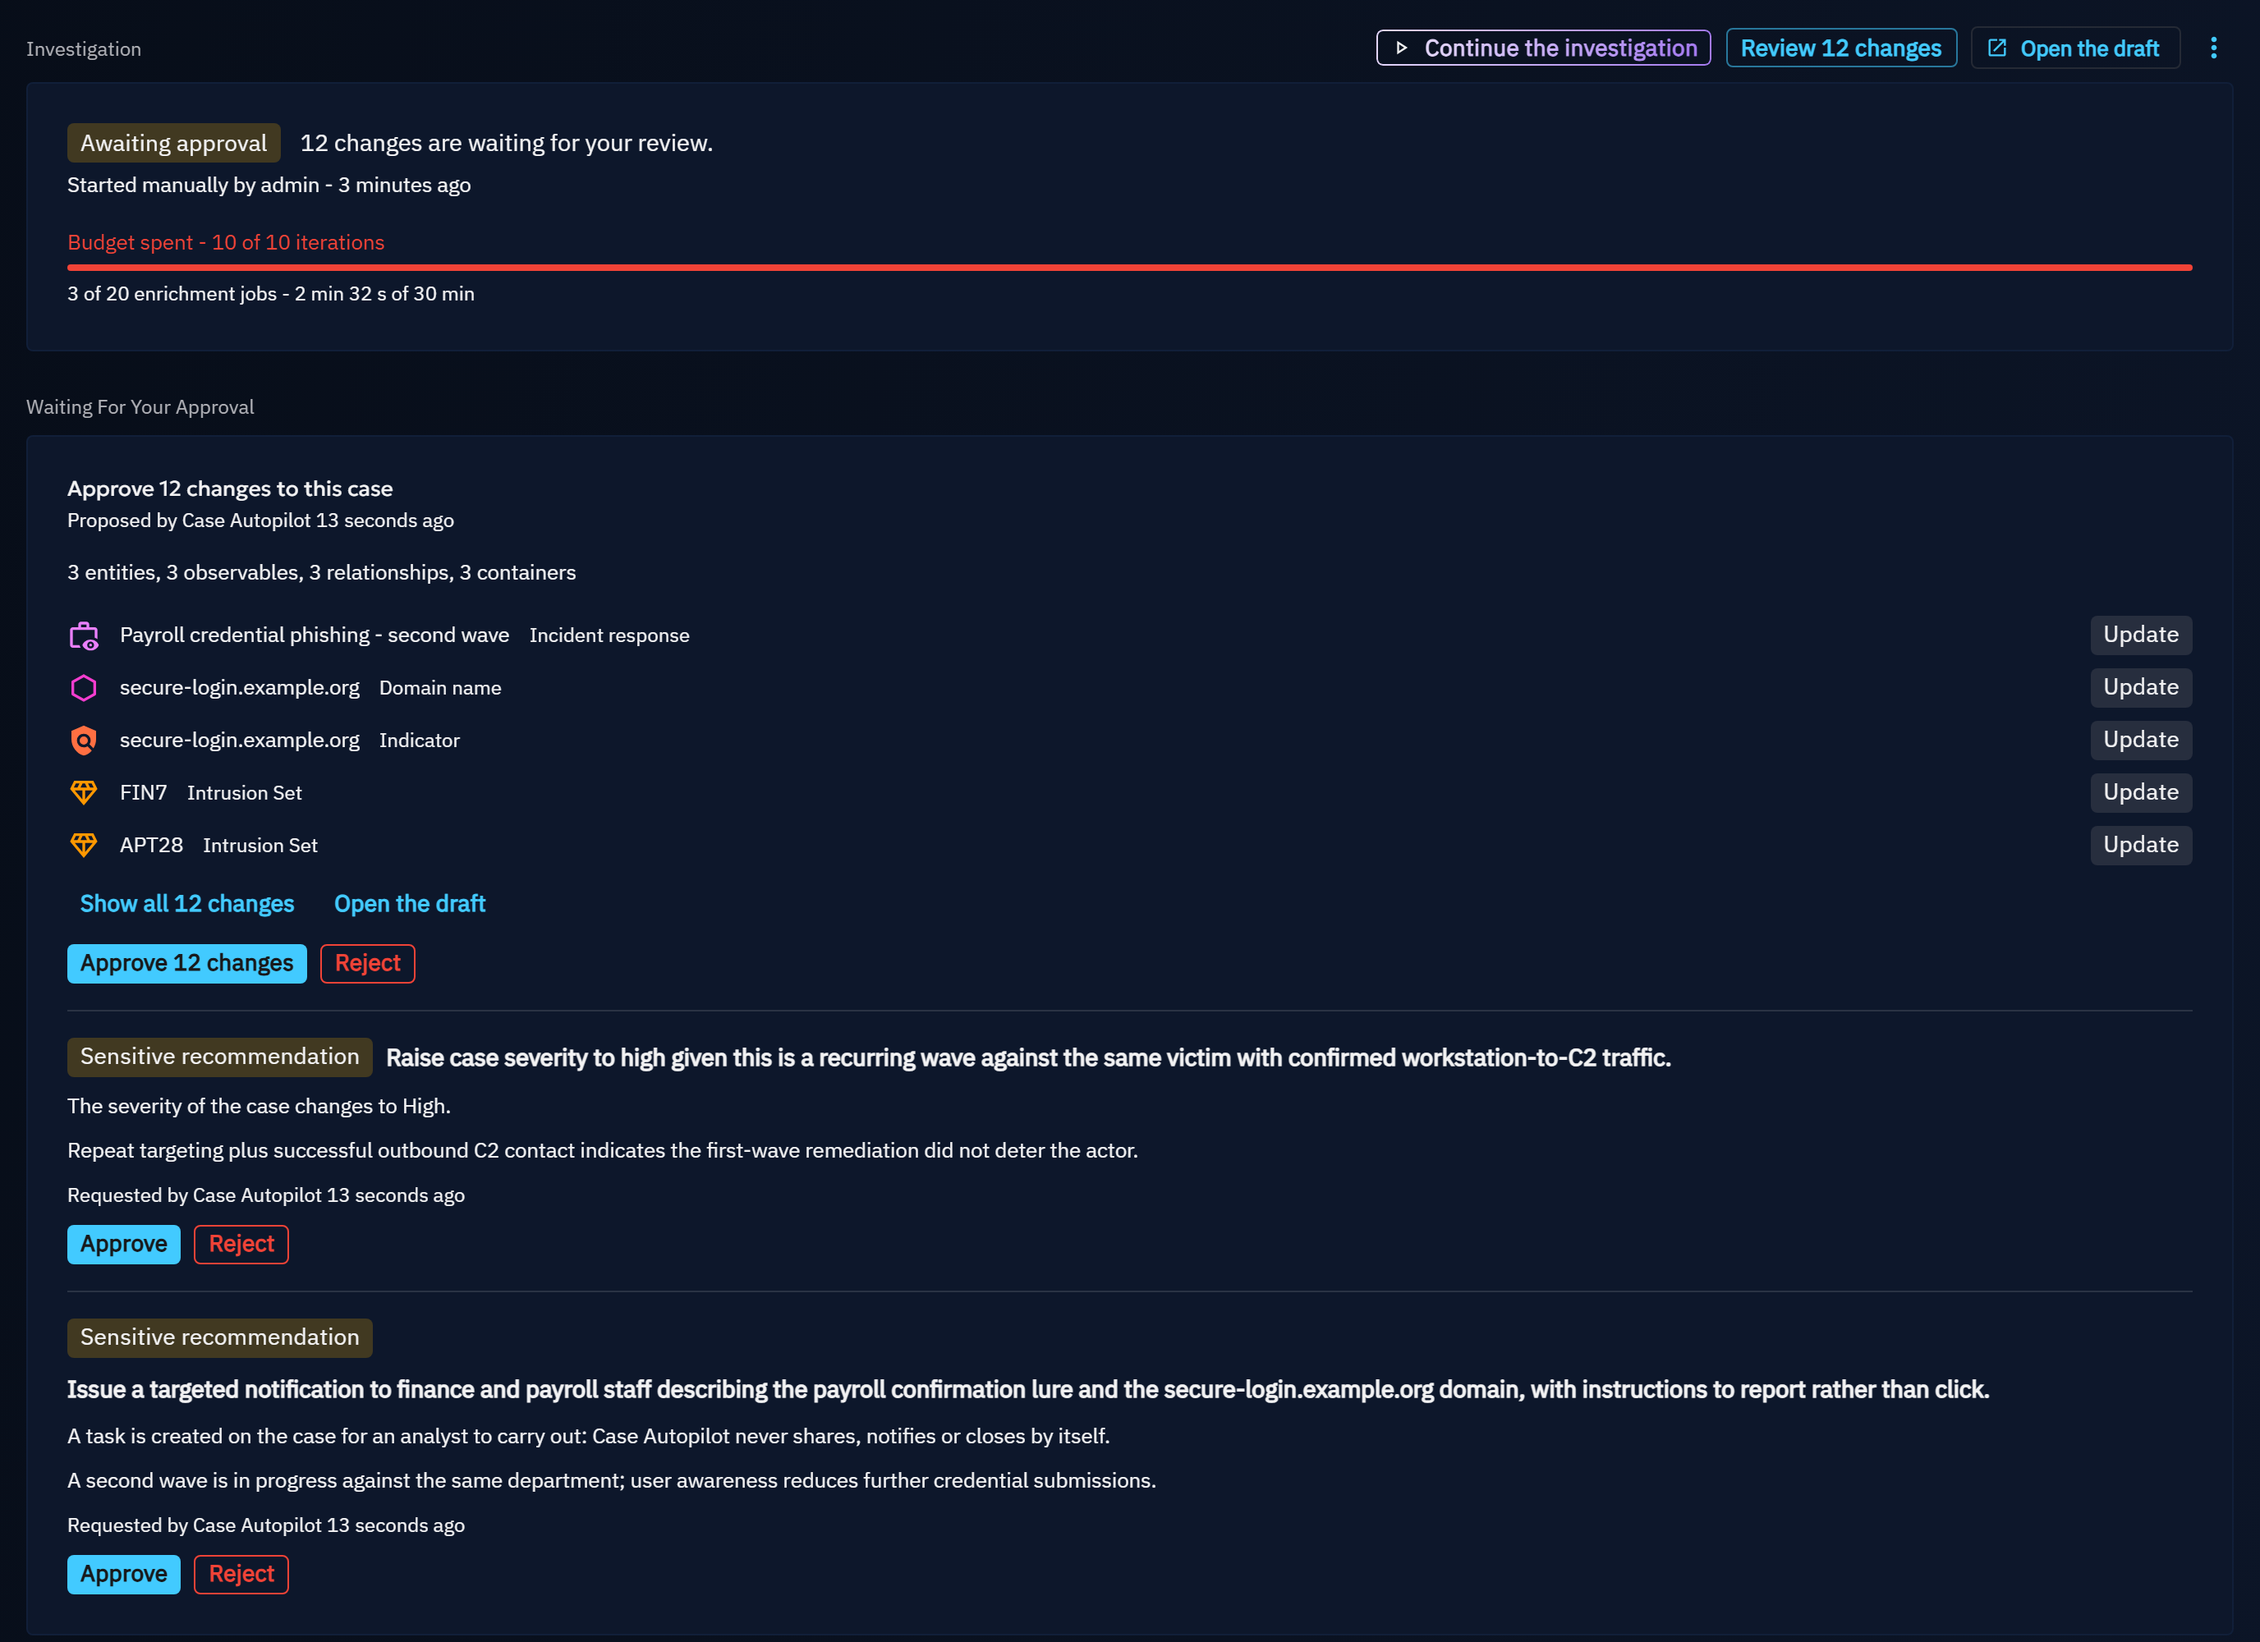
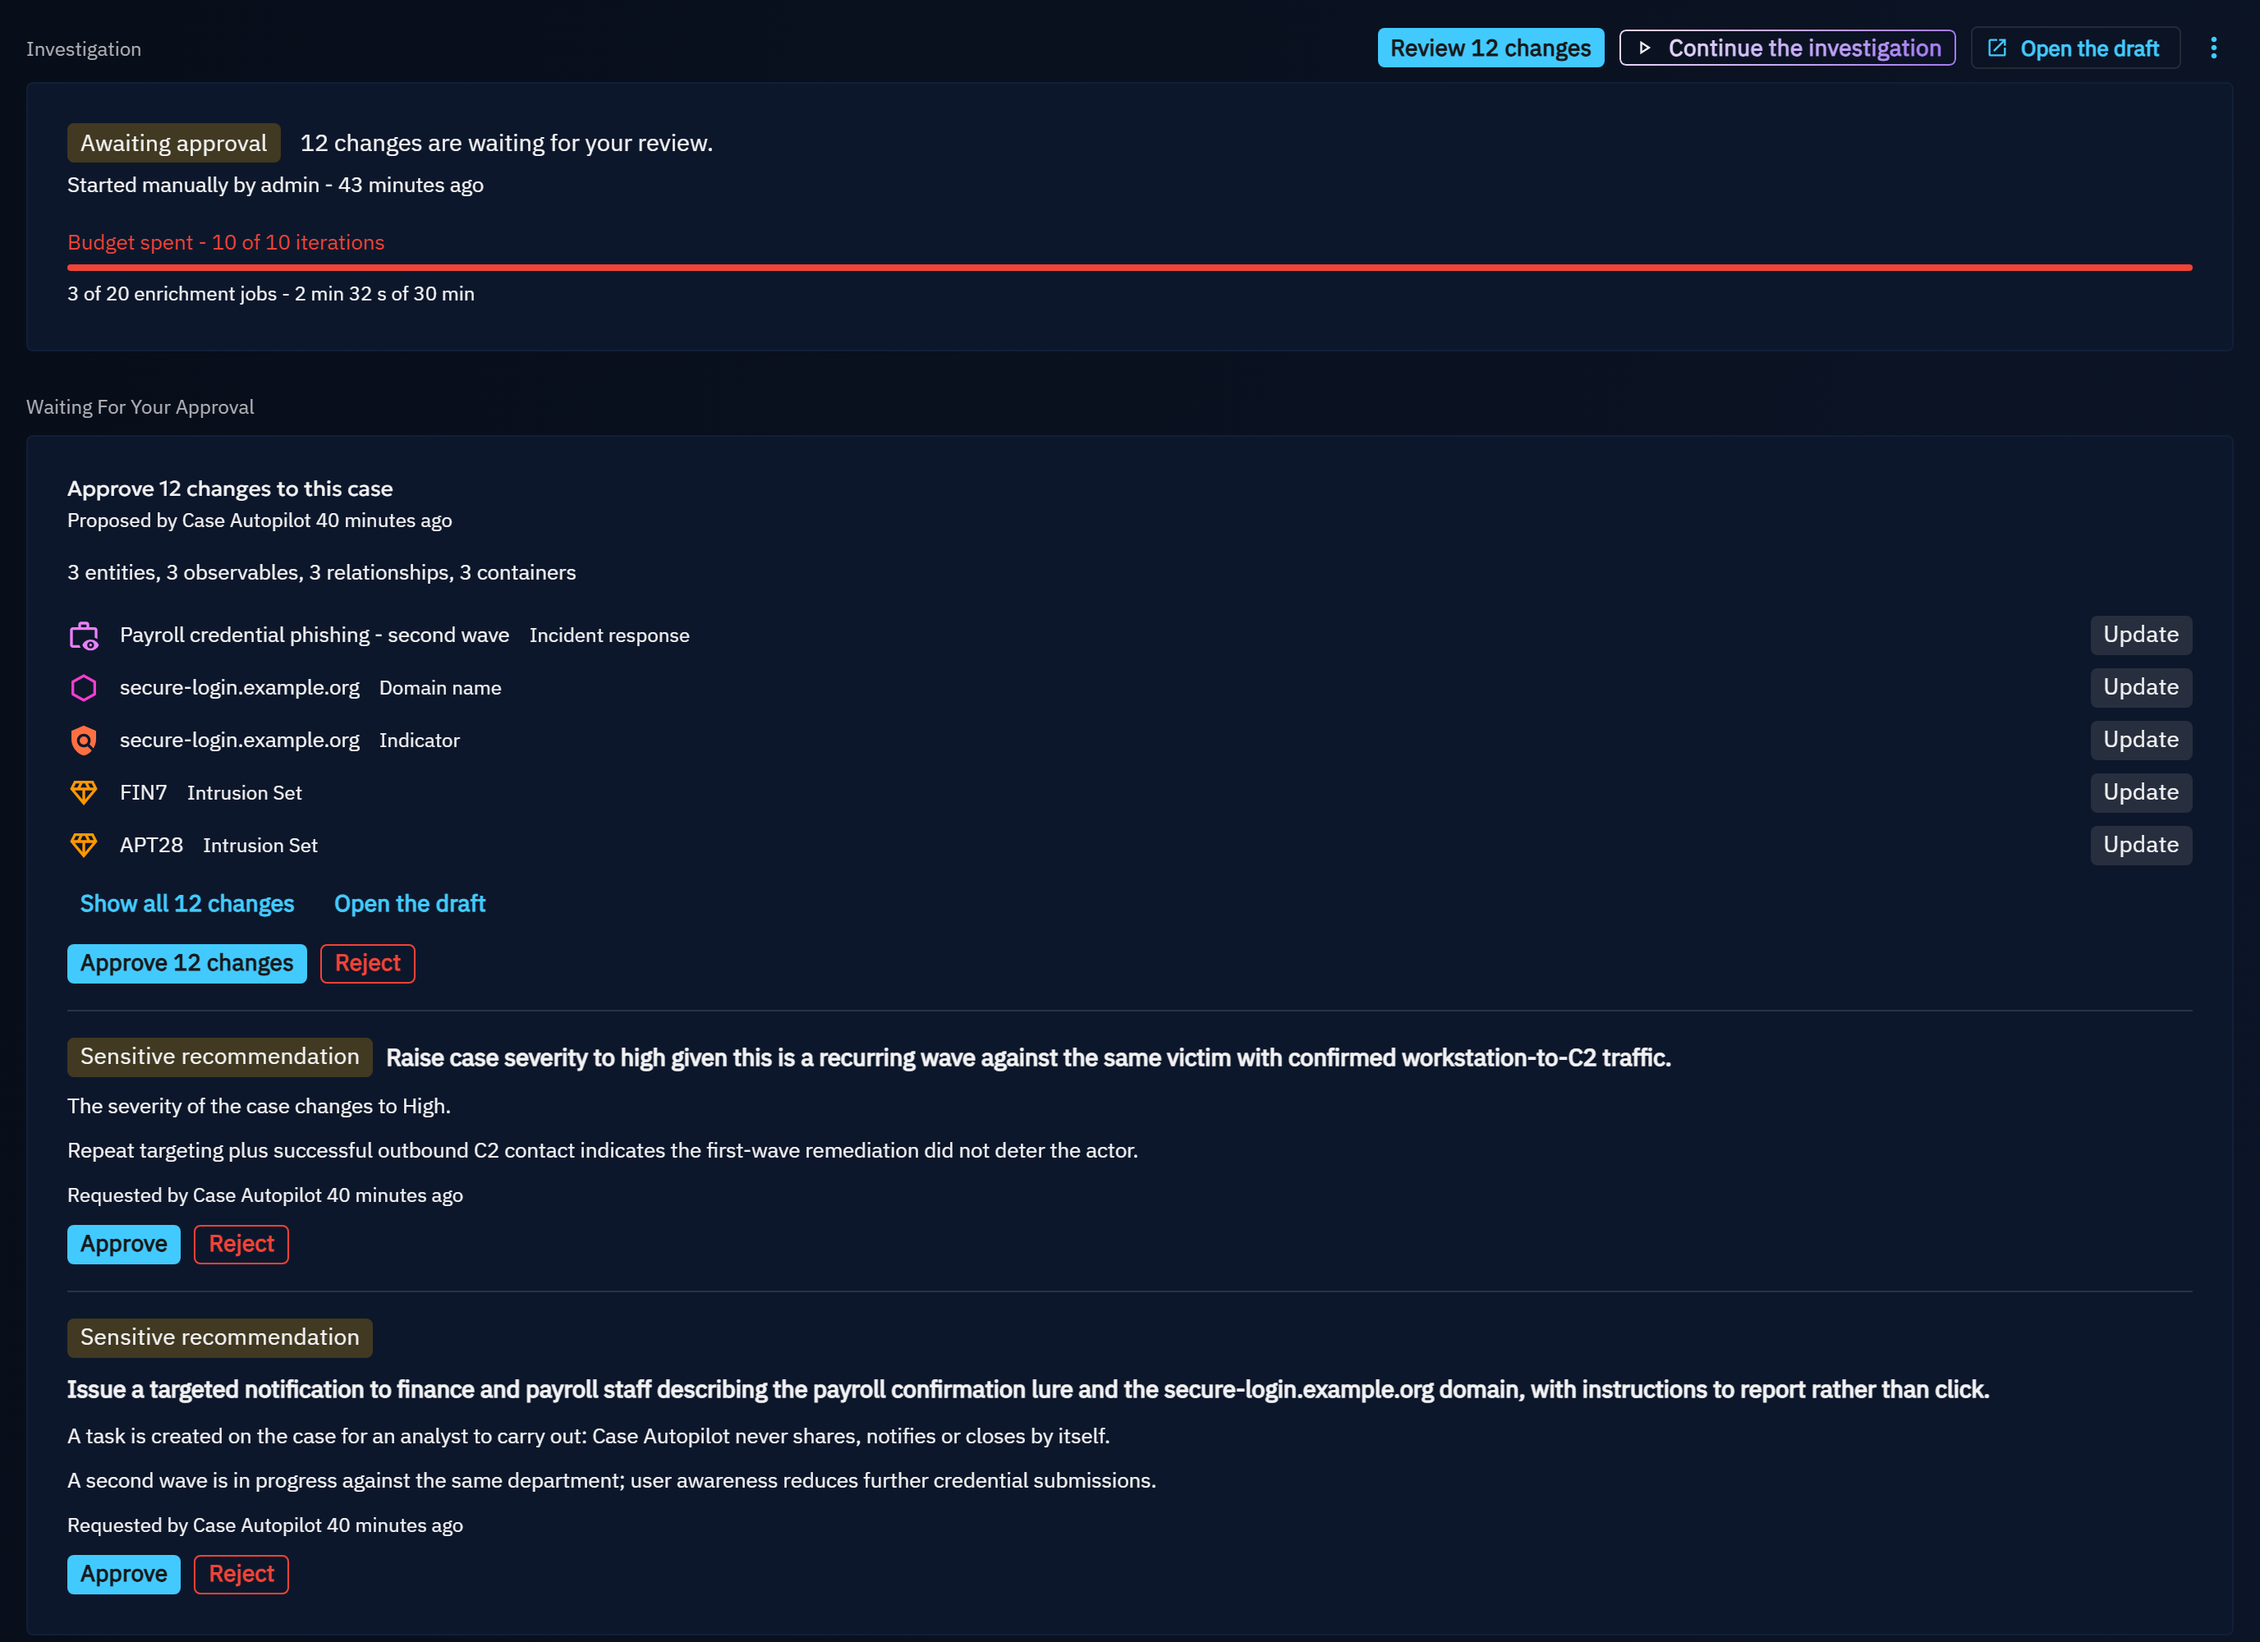
fix(investigation): make reviewing the changes the primary action of an investigation waiting for approval, and use the theme weight token for titles (#18672)

diff --git a/opencti-platform/opencti-front/src/private/components/investigation_runs/InvestigationRunHeader.tsx b/opencti-platform/opencti-front/src/private/components/investigation_runs/InvestigationRunHeader.tsx
@@ -120,19 +120,17 @@ const InvestigationRunHeader = ({ run, handlers, onOpenReport, onGiveFeedback, l
   let primary: React.ReactNode = null;
   const secondary: React.ReactNode[] = [];
   const reviewButton = (priority: 'primary' | 'secondary') => (
-    <Button key="review" size="small" variant={priority === 'primary' ? undefined : 'secondary'} onClick={handlers.onReviewApprovals} data-testid="investigation-run-review">
+    <Button key="review" size="small" variant={priority} onClick={handlers.onReviewApprovals} data-testid="investigation-run-review">
       {draftChanges !== null && draftChanges > 0
         ? t_i18n('Review {count} changes', { values: { count: n(draftChanges) } })
         : t_i18n('Review {count} requests', { values: { count: n(pending.length) } })}
     </Button>
   );
   if (run.run_status === 'awaiting_approval' && pending.length > 0) {
-    if (continueAsPrimary) {
-      primary = continueButton('primary');
-      secondary.push(reviewButton('secondary'));
-    } else {
-      primary = reviewButton('primary');
-    }
+    // Reviewing what waits is the primary action; continuing a run that spent
+    // its iterations stays one click away, as a secondary action.
+    primary = reviewButton('primary');
+    if (continueAsPrimary) secondary.push(continueButton('secondary'));
     if (draftOpen && run.draft) {
       secondary.push(
         <Button key="draft" size="small" variant="secondary" component={Link} to={`/dashboard/data/import/draft/${run.draft.id}`} startIcon={<OpenInNewOutlined fontSize="small" />}>

diff --git a/opencti-platform/opencti-front/src/private/components/investigation_runs/InvestigationRunHypotheses.tsx b/opencti-platform/opencti-front/src/private/components/investigation_runs/InvestigationRunHypotheses.tsx
@@ -83,7 +83,7 @@ const ConsistencyCell = ({ cell }: { cell: EvidenceCell }) => {
               paddingY: 0.25,
               borderRadius: 1,
               textAlign: 'center',
-              fontWeight: 600,
+              fontWeight: 'fontWeightBold',
               color,
               backgroundColor: alpha(color, Math.min(0.3, 0.08 + Math.abs(cell.consistency) * 0.08)),
             }}
@@ -214,7 +214,7 @@ const InvestigationRunHypotheses = ({ run }: InvestigationRunHypothesesProps) =>
           <Stack spacing={1}>
             {hypotheses.map((hypothesis) => (
               <Box key={hypothesis.candidate_id}>
-                <Typography variant="body2" sx={{ fontWeight: 600 }}>
+                <Typography variant="body2" sx={{ fontWeight: 'fontWeightBold' }}>
                   {`#${hypothesis.rank} ${hypothesis.candidate_name ?? t_i18n('Unknown actor')}`}
                 </Typography>
                 <Typography variant="body2">{hypothesis.explanation}</Typography>

diff --git a/opencti-platform/opencti-front/src/private/components/investigation_runs/InvestigationRunApprovals.tsx b/opencti-platform/opencti-front/src/private/components/investigation_runs/InvestigationRunApprovals.tsx
@@ -189,7 +189,7 @@ const GateApproval = ({ run, approval, entityNames, onDecided }: { run: Run; app
     <Stack spacing={1} data-testid={`investigation-approval-${approval.kind}`}>
       <Stack direction="row" spacing={1} alignItems="center" flexWrap="wrap" useFlexGap>
         <Chip label={t_i18n(APPROVAL_KIND_LABELS[approval.kind] ?? 'Sensitive recommendation')} severity="medium" size="sm" />
-        <Typography variant="body1" sx={{ fontWeight: 600, overflowWrap: 'anywhere' }}>{text.title}</Typography>
+        <Typography variant="body1" sx={{ fontWeight: 'fontWeightBold', overflowWrap: 'anywhere' }}>{text.title}</Typography>
       </Stack>
       <Typography variant="body2" color="text.secondary">{text.change}</Typography>
       {approval.reason && <Typography variant="body2" color="text.secondary">{approval.reason}</Typography>}

diff --git a/opencti-platform/opencti-front/src/private/components/investigation_runs/InvestigationRunGoalPlan.tsx b/opencti-platform/opencti-front/src/private/components/investigation_runs/InvestigationRunGoalPlan.tsx
@@ -218,7 +218,7 @@ const StepperItem = ({ index, action, evidence, jobs, entities, numbers, isLast,
       </Stack>
       <Stack spacing={0.75} sx={{ flex: 1, minWidth: 0, paddingBottom: isLast ? 0 : 2.5 }}>
         <Stack direction="row" spacing={1} alignItems="center" flexWrap="wrap" useFlexGap sx={{ minHeight: 24 }}>
-          <Typography variant="body2" sx={{ fontWeight: 600, overflowWrap: 'anywhere' }}>{`${index}. ${title}`}</Typography>
+          <Typography variant="body2" sx={{ fontWeight: 'fontWeightBold', overflowWrap: 'anywhere' }}>{`${index}. ${title}`}</Typography>
           <Chip label={statusLabel} severity={stepStatusSeverity(status)} size="sm" />
           <Box sx={{ flex: 1 }} />
           <StepMeta steps={steps} evidenceCount={evidenceCount} />
